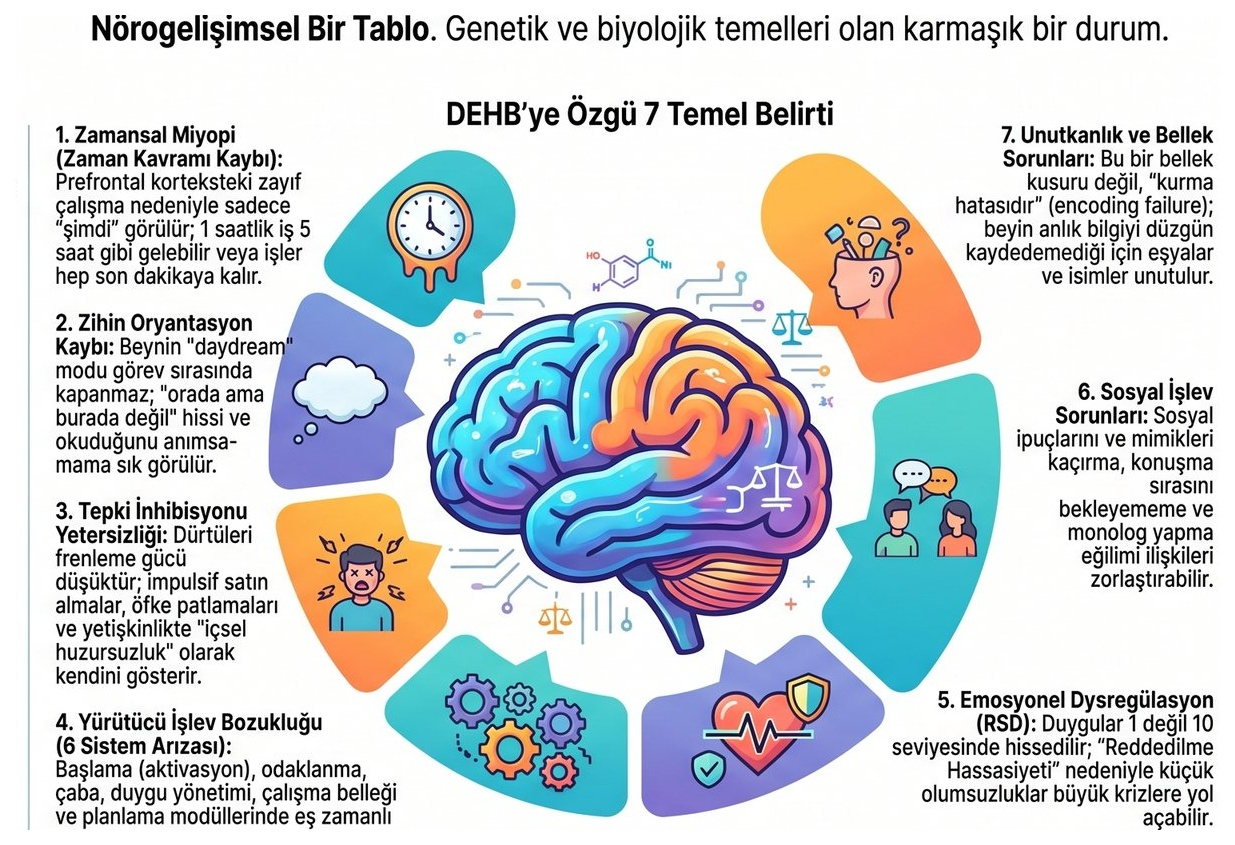
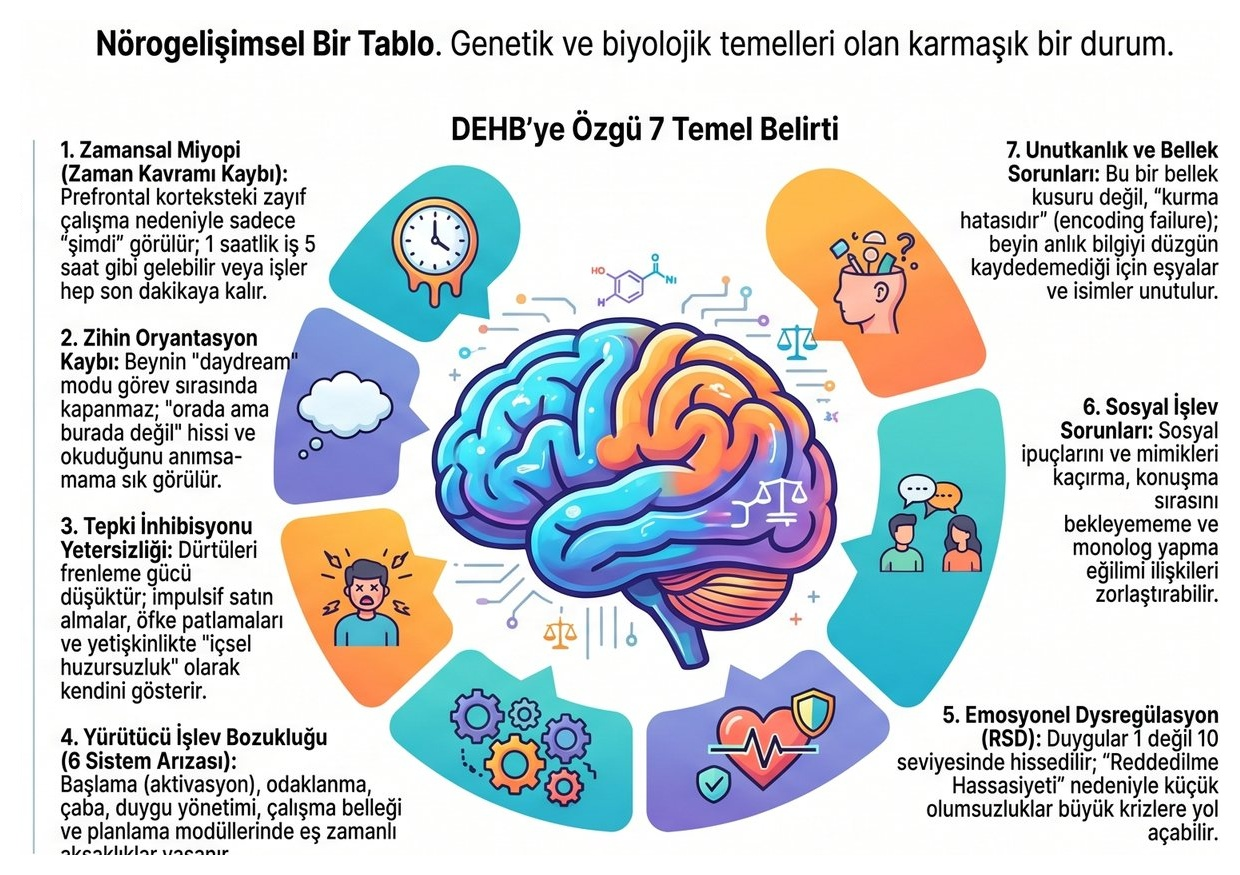
fix: tip 3 ve tum panellerin alt ve ust kirpimlari genisletildi, yazi kesintileri tamamen giderildi

diff --git a/index.html b/index.html
@@ -257,12 +257,13 @@ html.dark .story-progress-segment { background: rgba(255,255,255,0.15); }
   box-shadow: 0 25px 60px -15px rgba(0,0,0,0.07);
 }
 .story-img-container {
-  max-height: 440px; border-radius: 1.5rem; overflow: hidden;
+  max-height: 520px; border-radius: 1.5rem; overflow: hidden;
   background: #ffffff; border: 1px solid var(--border-light);
-  cursor: zoom-in; position: relative;
+  cursor: zoom-in; position: relative; display: flex;
+  align-items: center; justify-content: center; padding: 0.75rem;
 }
 .story-img-container img {
-  width: 100%; height: 100%; max-height: 440px; object-fit: contain;
+  width: 100%; height: auto; max-height: 500px; object-fit: contain;
   transition: transform 0.3s cubic-bezier(0.34, 1.56, 0.64, 1);
 }
 .story-img-container:hover img { transform: scale(1.02); }
